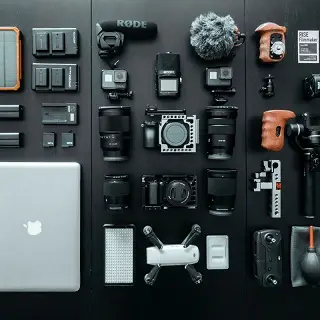
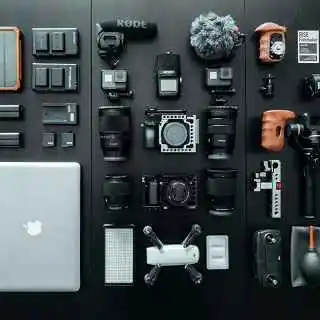
optimisation supplementaire des images

diff --git a/index.html b/index.html
@@ -7,7 +7,7 @@
 	<meta name="description"
 		content="Agence La Panthère, au service des entreprises de Lyon et sa région. Développement de l'attractivité, visibilité sur Internet. Expert en identité visuelle et SEO. Stratégie sur mesure pour attirer de nouveaux clients.">
 	<meta name="viewport" content="width=device-width, initial-scale=1.0, viewport-fit=cover">
-	<link rel="shortcut icon" type="image/png" href="favicon.jpg">
+	<link rel="shortcut icon" type="image/png" href="favicon.webp">
 
 	<link rel="stylesheet" type="text/css" href="css/bootstrap.min.css">
 	<link rel="stylesheet" type="text/css" href="style.css">
@@ -179,9 +179,9 @@
 				</div>
 				<div class="row tight-width-whitespace portfolio-row">
 					<div class="col-sm-6">
-						<a href="#" data-lightbox="img/1.webp" data-gallery-id="gallery-1"
+						<a href="#" data-lightbox="img/1.jpg" data-gallery-id="gallery-1"
 							data-caption="Refonte d'un site web pour un journal local" data-frame="snapshot-lb"><img
-								src="img/1.webp" alt="Illustration du site web d'un journal local"
+								src="img/1.jpg" alt="Illustration du site web d'un journal local"
 								class="img-responsive portfolio-thumb"></a>
 						<h3 class="mg-md text-center">
 							Refonte d'un site web pour un journal local
@@ -191,9 +191,9 @@
 						</p>
 					</div>
 					<div class="col-sm-6">
-						<a href="#" data-lightbox="img/2.webp" data-gallery-id="gallery-1"
+						<a href="#" data-lightbox="img/2.jpg" data-gallery-id="gallery-1"
 							data-caption="Création d'un site web pour photographes" data-frame="snapshot-lb"><img
-								src="img/2.webp" class="img-responsive portfolio-thumb"
+								src="img/2.jpg" class="img-responsive portfolio-thumb"
 								alt="Illustration du site web pour photographes"></a>
 						<h3 class="mg-md text-center">
 							Création d'un site web pour photographes
